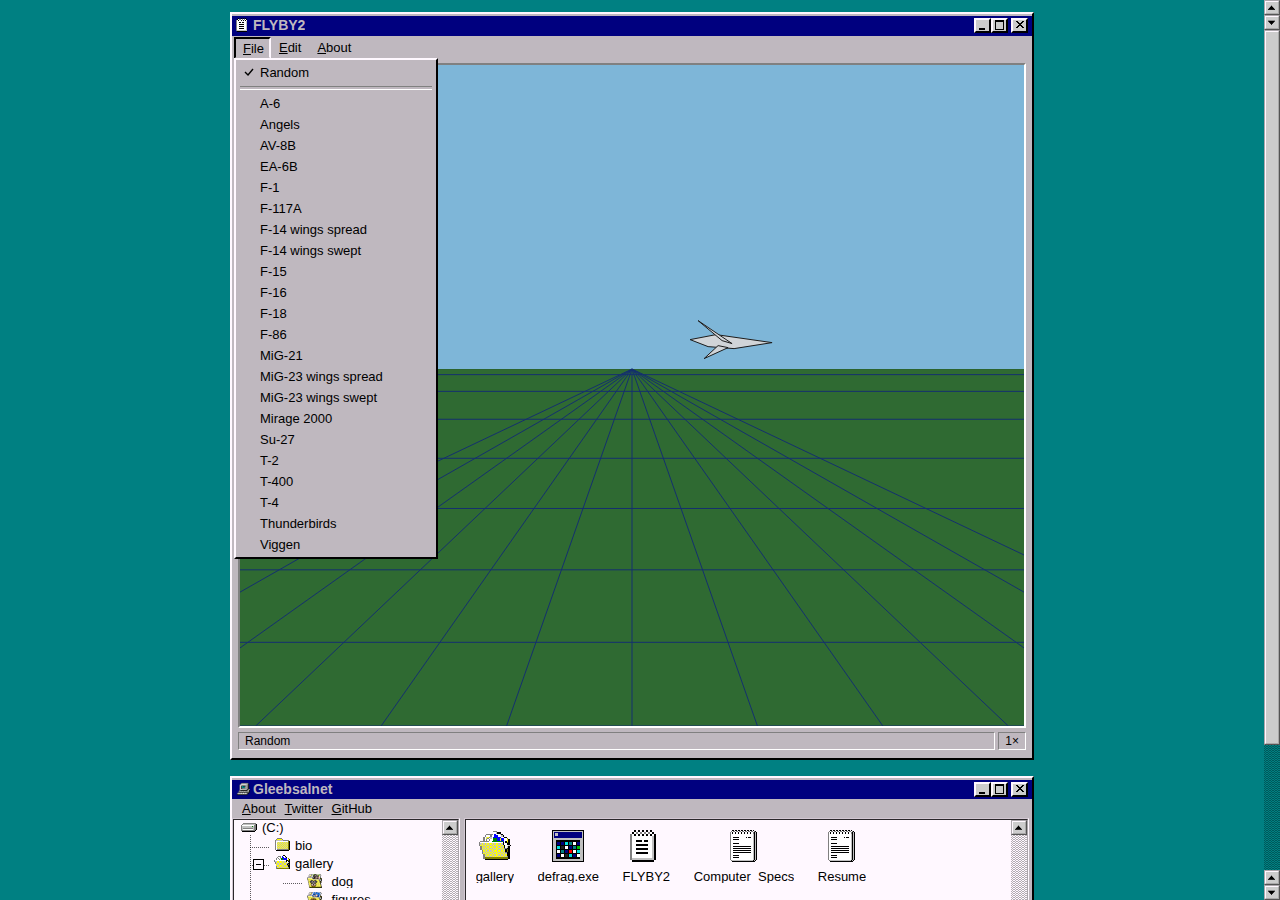
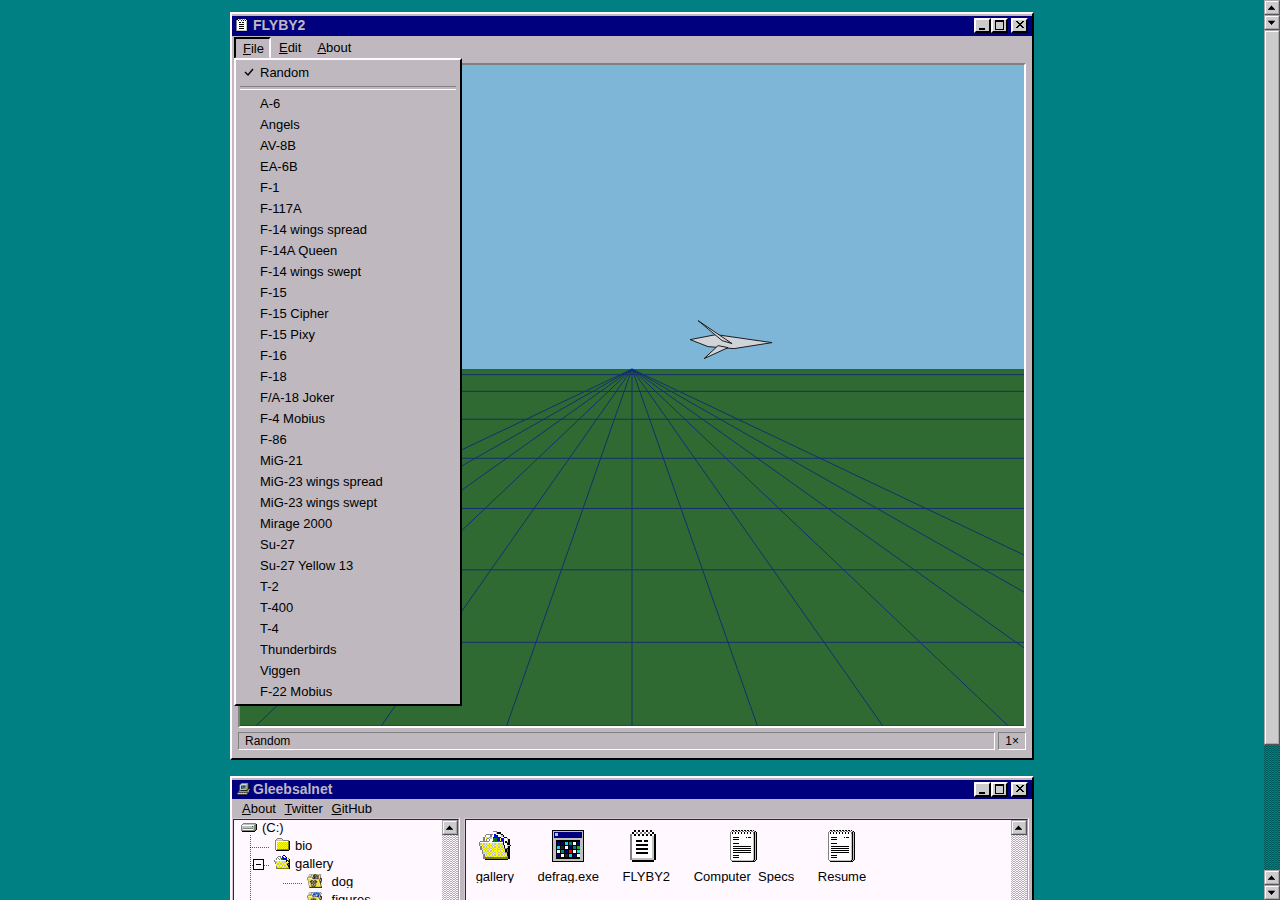
Match the FLYBY2 File menu to the HTML5 port's 29 aircraft.
The public repo is a Three.js port. Its manifest adds seven variants to the original 22, and the About dialog credits that port plus the original screensaver.

Changed region(s): [[0.1875, 0.0622, 0.375, 0.8089], [0.2188, 0.2489, 0.2812, 0.3111]]

diff --git a/_includes/flyby_window.html b/_includes/flyby_window.html
@@ -19,21 +19,28 @@
 				<button type="button" role="menuitemradio" data-plane="f1">F-1</button>
 				<button type="button" role="menuitemradio" data-plane="f117a">F-117A</button>
 				<button type="button" role="menuitemradio" data-plane="f14sprd">F-14 wings spread</button>
+				<button type="button" role="menuitemradio" data-plane="f14aqueen">F-14A Queen</button>
 				<button type="button" role="menuitemradio" data-plane="f14swbk">F-14 wings swept</button>
 				<button type="button" role="menuitemradio" data-plane="f15">F-15</button>
+				<button type="button" role="menuitemradio" data-plane="f15cipher">F-15 Cipher</button>
+				<button type="button" role="menuitemradio" data-plane="f15pixy">F-15 Pixy</button>
 				<button type="button" role="menuitemradio" data-plane="f16">F-16</button>
 				<button type="button" role="menuitemradio" data-plane="f18">F-18</button>
+				<button type="button" role="menuitemradio" data-plane="f18joker">F/A-18 Joker</button>
+				<button type="button" role="menuitemradio" data-plane="f4mobius">F-4 Mobius</button>
 				<button type="button" role="menuitemradio" data-plane="f86blue">F-86</button>
 				<button type="button" role="menuitemradio" data-plane="mig21">MiG-21</button>
 				<button type="button" role="menuitemradio" data-plane="mig23spd">MiG-23 wings spread</button>
 				<button type="button" role="menuitemradio" data-plane="mig23wbk">MiG-23 wings swept</button>
 				<button type="button" role="menuitemradio" data-plane="mrg2000">Mirage 2000</button>
 				<button type="button" role="menuitemradio" data-plane="su27">Su-27</button>
+				<button type="button" role="menuitemradio" data-plane="su27yellow13">Su-27 Yellow 13</button>
 				<button type="button" role="menuitemradio" data-plane="t2blue">T-2</button>
 				<button type="button" role="menuitemradio" data-plane="t400">T-400</button>
 				<button type="button" role="menuitemradio" data-plane="t4blue">T-4</button>
 				<button type="button" role="menuitemradio" data-plane="thunder">Thunderbirds</button>
 				<button type="button" role="menuitemradio" data-plane="viggen">Viggen</button>
+				<button type="button" role="menuitemradio" data-plane="f22mobius">F-22 Mobius</button>
 			</div>
 		</div>
 		<div class="flyby-menu" id="flyby-edit">
@@ -64,8 +71,9 @@
 		About FLYBY2
 	</div>
 	<div class="defrag-dialog-body">
-		<p>FLYBY2 is a screensaver written by Soji Yamakawa (CaptainYS).</p>
-		<p>Copyright 2022 Soji Yamakawa. The flight code and aircraft are from that project, under the BSD 3-Clause license.</p>
+		<p>This window runs the HTML5 port of Soji Yamakawa’s FLYBY2 screensaver (CaptainYS).</p>
+		<p>Copyright 2022 Soji Yamakawa. The original flight code and aircraft are BSD 3-Clause. The port adds seven aircraft. The supplied F-22 model has no license in its archive.</p>
+		<p><a href="https://github.com/Globalnet626/FLYBY2">github.com/Globalnet626/FLYBY2</a></p>
 		<p><a href="https://github.com/captainys/FLYBY2">github.com/captainys/FLYBY2</a></p>
 		<div class="flyby-logo-slot">Logo</div>
 		<div class="defrag-dialog-actions">

diff --git a/_sass/_main.scss b/_sass/_main.scss
@@ -1431,7 +1431,7 @@ body:has(.flyby-window) .footer {
 	position: absolute;
 	top: 100%;
 	left: 0;
-	min-width: 196px;
+	min-width: 220px;
 	max-height: calc(100vh - 160px);
 	margin-top: -1px;
 	padding: 2px;
